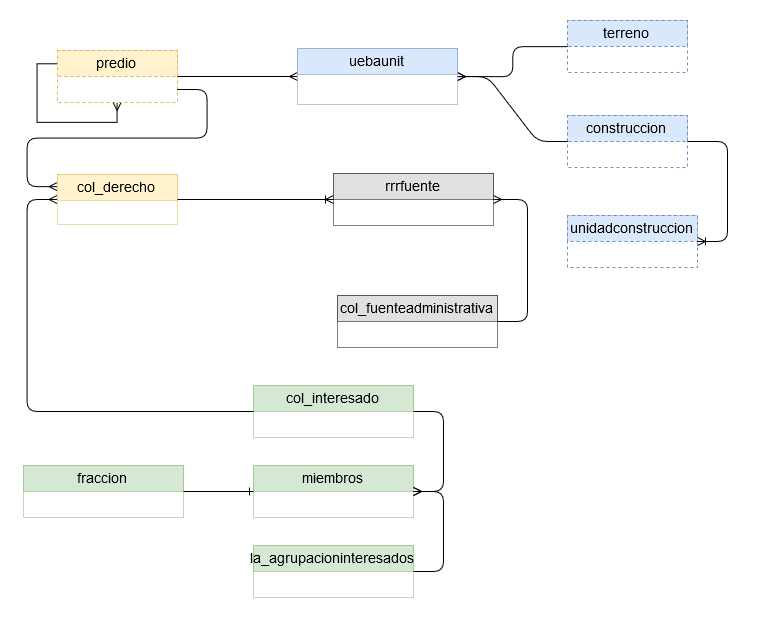
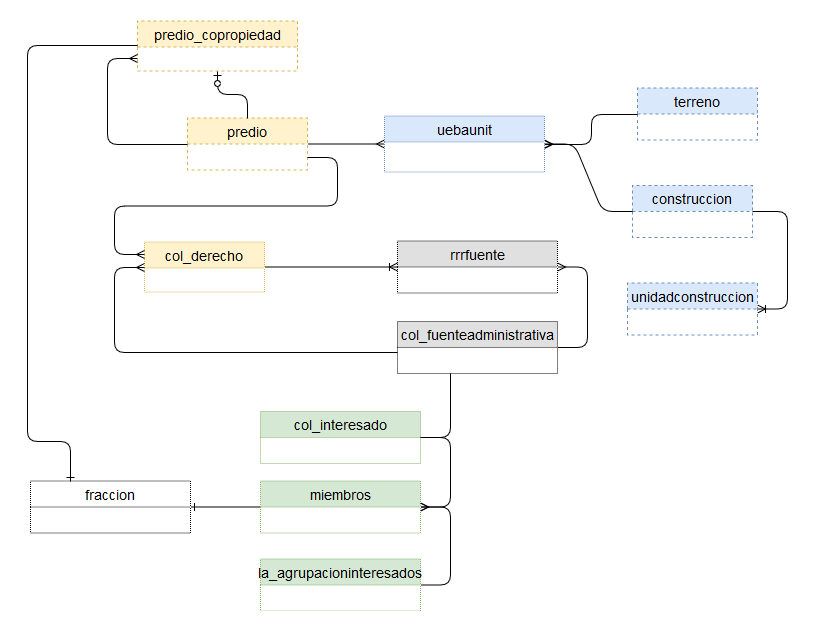
Se agrega el caso de ph

diff --git a/ph/README.md b/ph/README.md
@@ -3,7 +3,7 @@
 ![Caso PH](https://github.com/AgenciaImplementacion/condiciones_predios/blob/master/ph/ph-Caso.png?raw=true)
 
 Terreno con un predio P.H. que tiene dos construcciones.
-La primera construcción es una torre residencial de 3 pisos y cada piso tiene un apartamento, la segunda es un salón comunal que pertenece al P.H.
+La primera construcción es una torre residencial de 2 pisos y cada piso tiene un apartamento, la segunda es un salón comunal que pertenece al P.H.
 
 # Representación LADM
 
